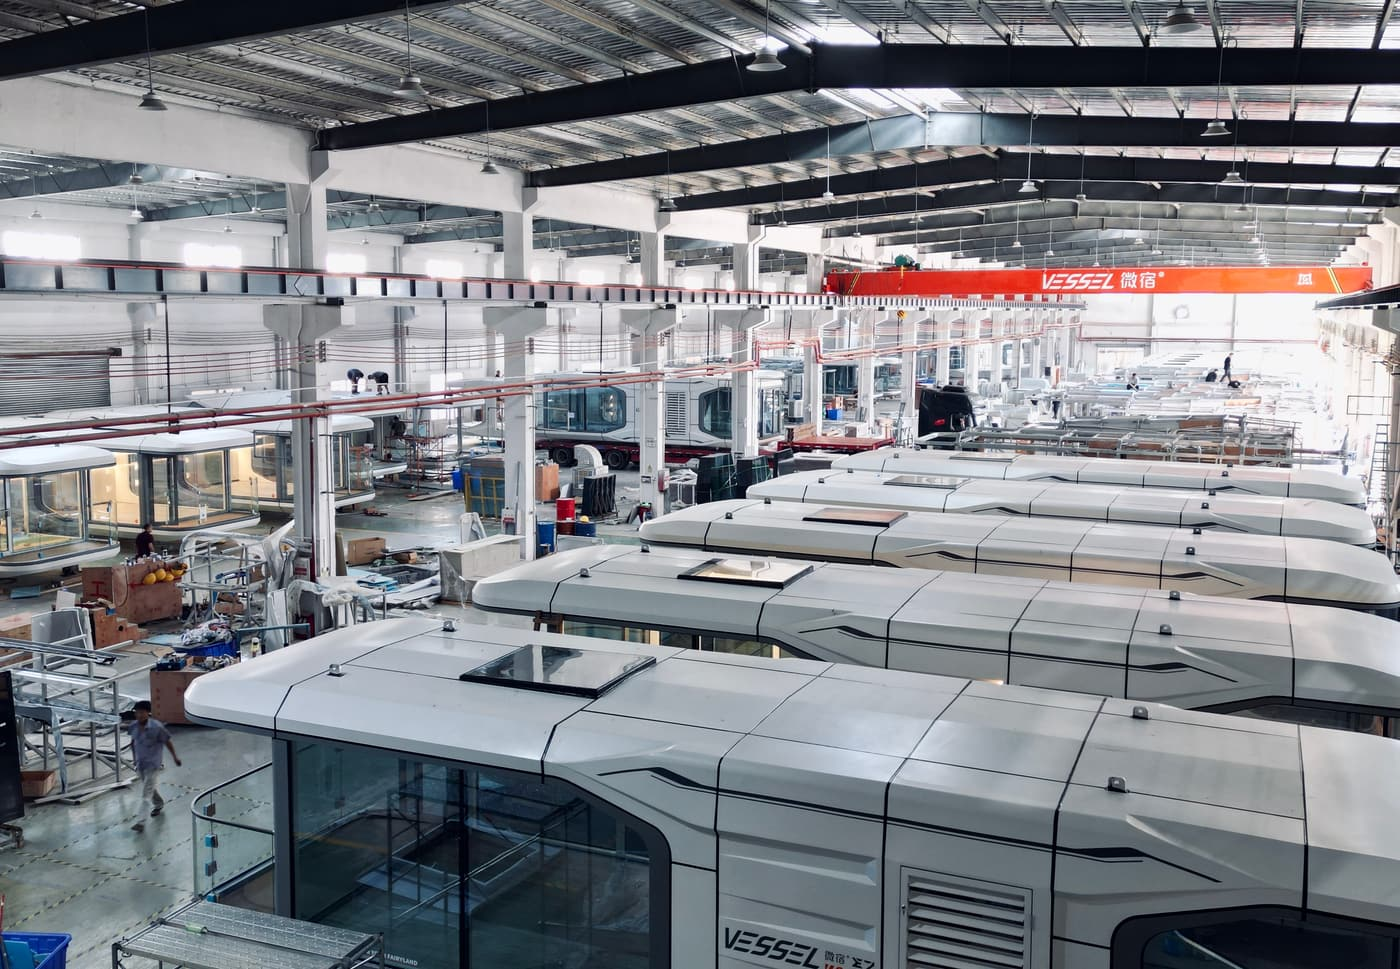
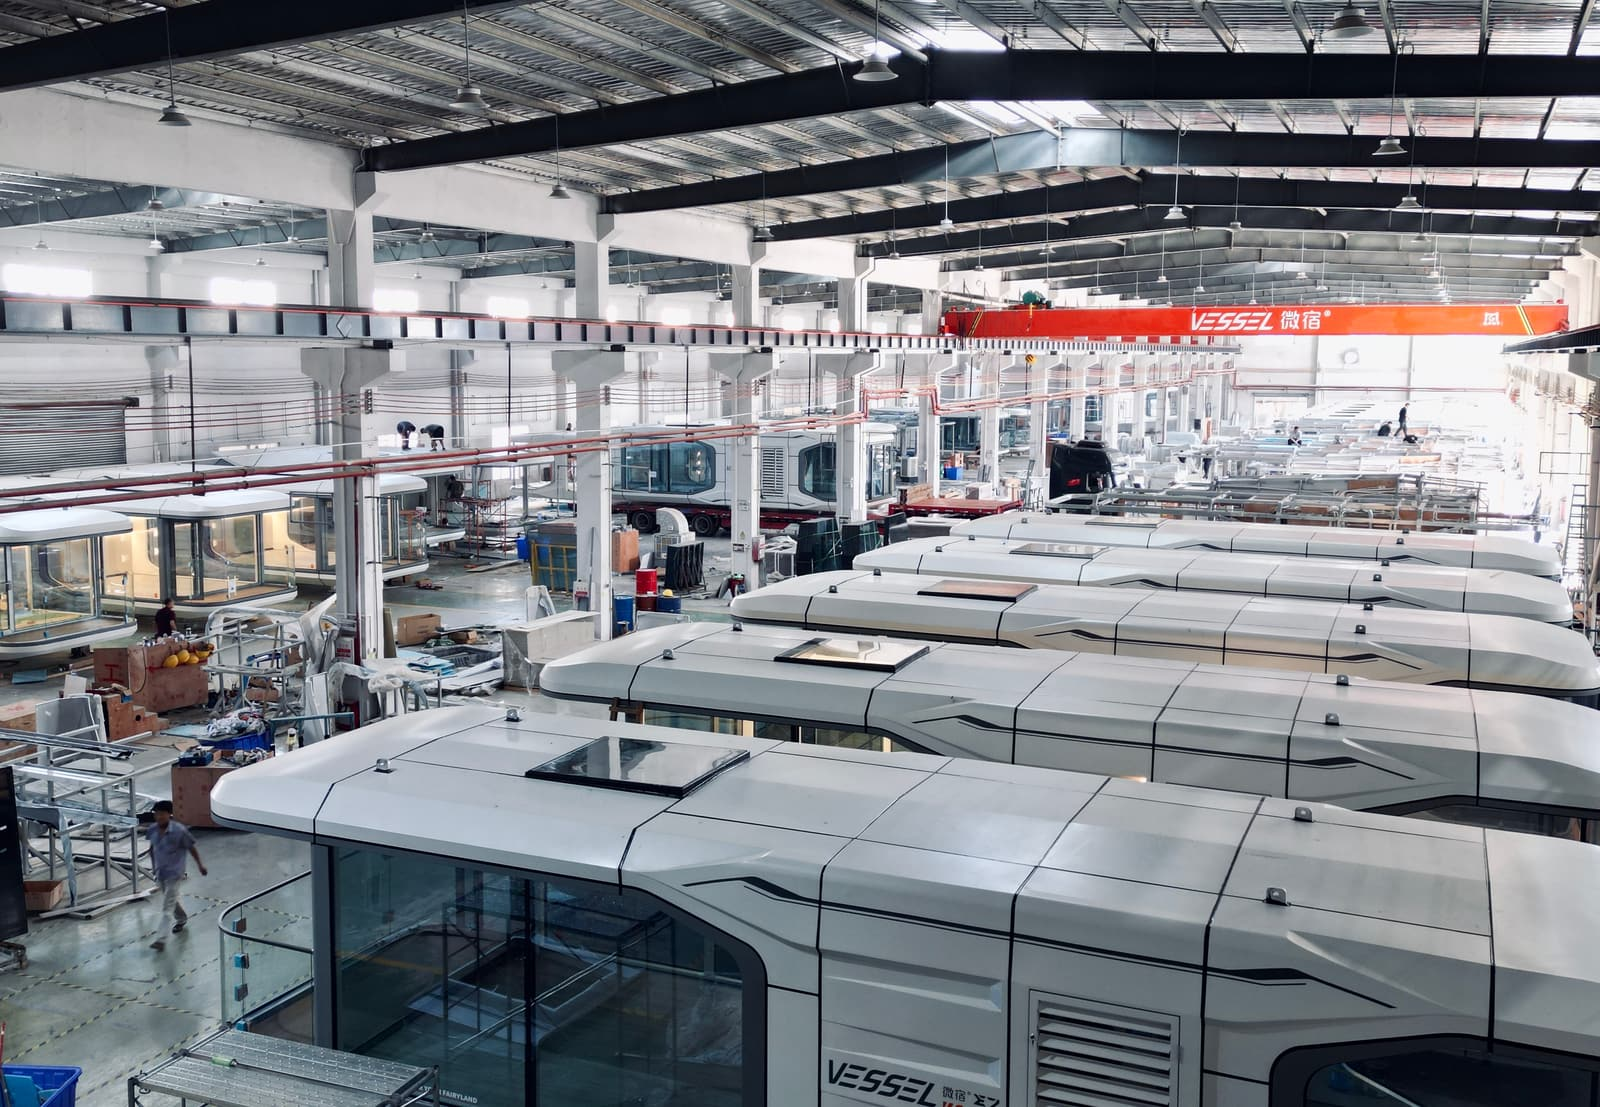
perf(about): use optimized page imagery

Changed region(s): [[0.6757, 0.0, 0.8293, 0.031], [0.0, 0.3715, 0.0614, 0.4334], [0.6143, 0.0, 0.645, 0.031]]

diff --git a/src/app/about/page.tsx b/src/app/about/page.tsx
@@ -70,16 +70,17 @@ const ABOUT_ORDER_GROUPS = {
   postCertifications: 50_000,
 };
 
-const ABOUT_OPTIMIZED_IMAGES = new Map<string, string>([
-  ['/images/about/about_scene-01.jpg', '/images/about/optimized/about_scene-01.jpg'],
-  ['/images/about/about_factory-02.jpg', '/images/about/optimized/about_factory-02.jpg'],
-  ['/images/about/about_factory-05.jpg', '/images/about/optimized/about_factory-05.jpg'],
-  ['/images/about/about_factory-06.png', '/images/about/optimized/about_factory-06.jpg'],
-  ['/images/about/about_team-05.jpg', '/images/about/optimized/about_team-05.jpg'],
-]);
-
 function optimizedAboutImage(src: string) {
-  return ABOUT_OPTIMIZED_IMAGES.get(src) ?? src;
+  if (
+    !src.startsWith('/images/about/') ||
+    src.startsWith('/images/about/optimized/') ||
+    !/\.(jpe?g|png)$/i.test(src)
+  ) {
+    return src;
+  }
+
+  const fileName = src.split('/').pop();
+  return fileName ? `/images/about/optimized/${fileName.replace(/\.(jpe?g|png)$/i, '.jpg')}` : src;
 }
 
 // ─── scroll reveal ────────────────────────────────────────────────────────────
@@ -609,12 +610,12 @@ export default function AboutPage() {
         .filter((item) => Boolean(item.image_url))
         .map((item, index) => ({
           id: item.id ?? `partner-${String(index + 1).padStart(2, '0')}`,
-          src: item.image_url as string,
+          src: optimizedAboutImage(item.image_url as string),
           alt: localText(item, zh, `Partner ${index + 1}`),
         }))
     : PARTNERS.map((src, index) => ({
         id: `partner-${String(index + 1).padStart(2, '0')}`,
-        src,
+        src: optimizedAboutImage(src),
         alt: `Partner ${index + 1}`,
       }));
   const showRecognitionAwards = visibleResolvedModule(dynamicModules, 'recognition-awards');
@@ -1111,7 +1112,7 @@ export default function AboutPage() {
                   <div className="bg-white rounded-lg p-4 flex flex-col gap-3">
                     <div className="relative w-full" style={{ maxHeight: '200px', height: '200px' }}>
                       <Image
-                        src={cert.src}
+                        src={optimizedAboutImage(cert.src)}
                         alt={cert.en}
                         fill
                         className="object-contain"
@@ -1142,7 +1143,7 @@ export default function AboutPage() {
                 >
                   <div className="relative aspect-[3/4]">
                     <Image
-                      src={award.src}
+                      src={optimizedAboutImage(award.src)}
                       alt={zh ? award.zh : award.en}
                       fill
                       className="object-contain p-2 group-hover:scale-105 transition-transform duration-300"
@@ -1415,7 +1416,7 @@ export default function AboutPage() {
               aria-label={zh ? '微宿全球营地部署预览地图' : 'VESSEL global camp deployment preview map'}
             >
               <Image
-                src="/images/about/about_globalmap-01.jpg"
+                src={optimizedAboutImage('/images/about/about_globalmap-01.jpg')}
                 alt={zh ? '微宿全球营地部署静态预览' : 'VESSEL global deployment static preview'}
                 fill
                 sizes="(min-width: 1024px) 1152px, 100vw"
